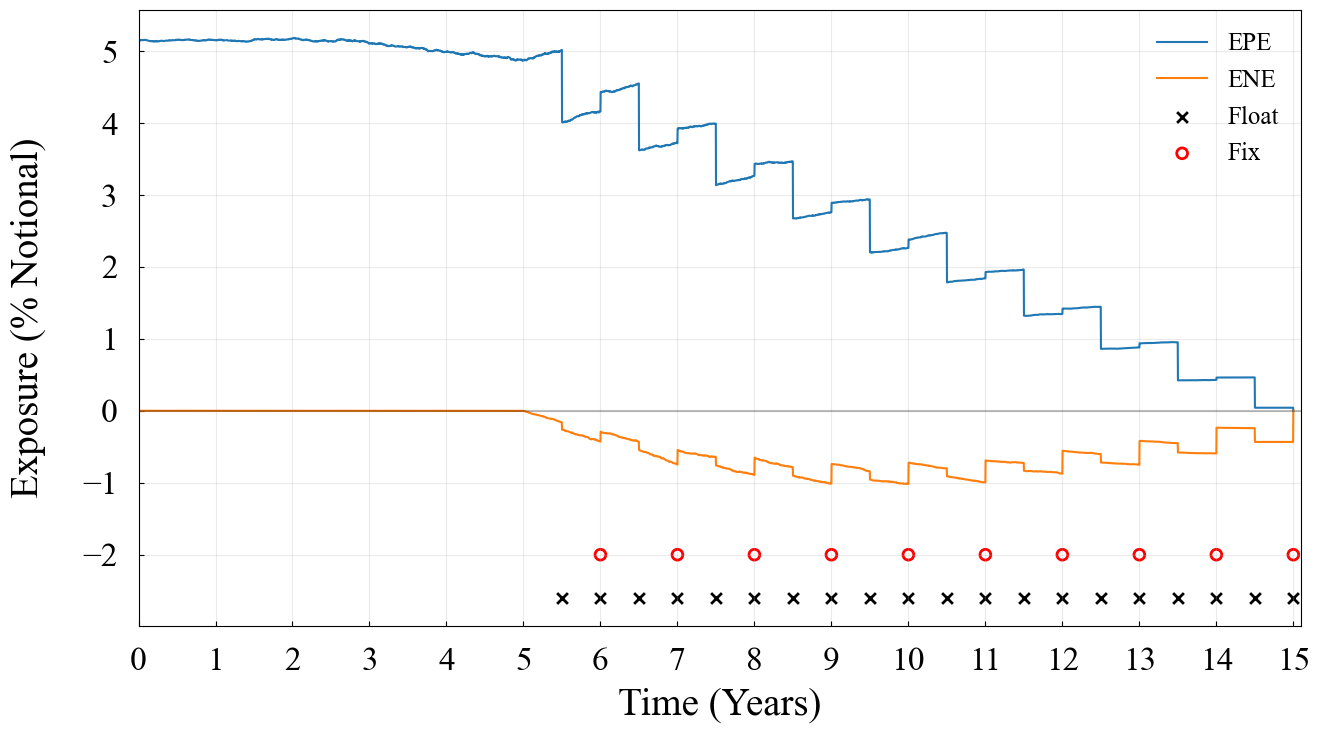
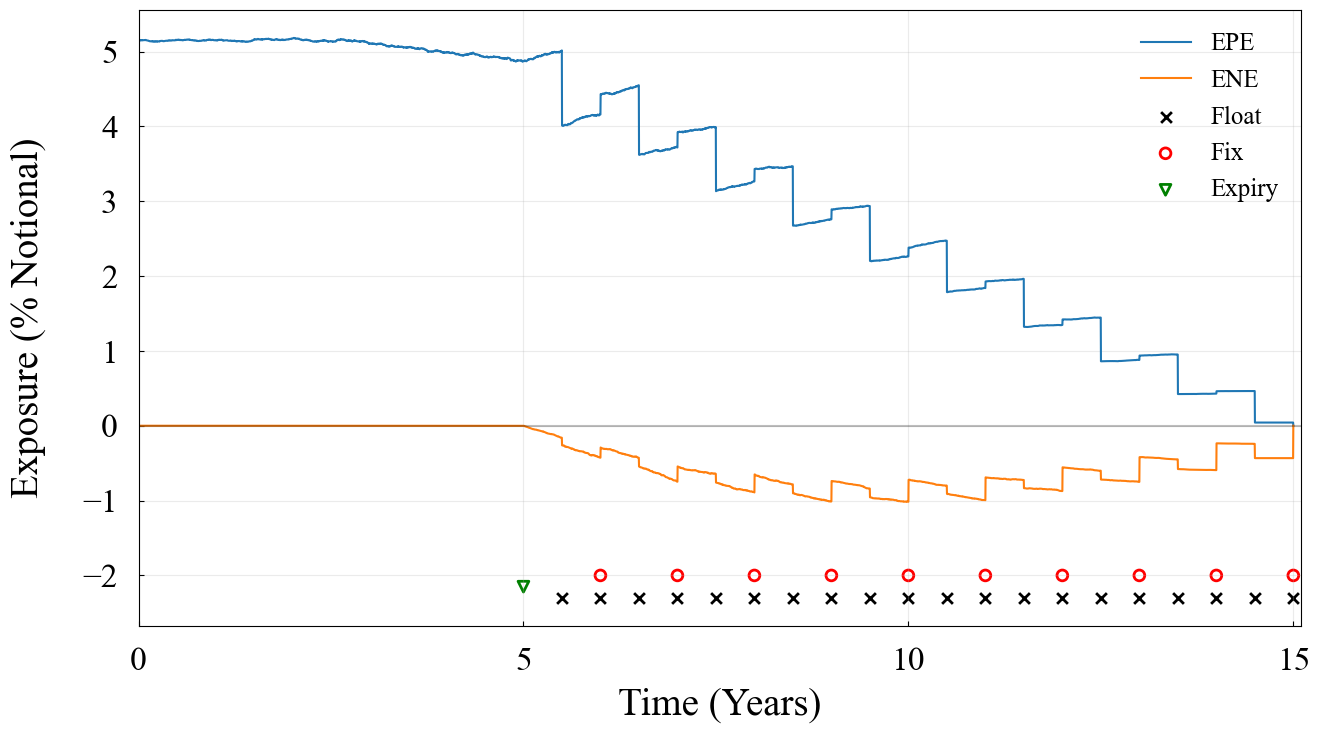
graphs

diff --git a/KInfluenceCVADVA.py b/KInfluenceCVADVA.py
@@ -25,7 +25,7 @@ S=np.arange(0,11,1)
 
 # Other settings
 dt   = 1/12
-sims = 1000
+sims = 5000
 total_time = timer.time()
 
 KVM=0 # Threshold for VM
@@ -36,7 +36,7 @@ Kvals = np.array([0, 0.1, 0.2, 0.3, 0.4, 0.5])
 MTAvals = np.array([0, 0.1, 0.2, 0.3, 0.4, 0.5])
 
 
-if True:
+if False:
     print('10Y Payer Swap K changes CVA and DVA')
     start = timer.time()
     
@@ -170,6 +170,7 @@ if True:
     ax.tick_params(axis='y', direction='in', top = 'True', labelsize = 24, pad = 15)
     ax.xaxis.set_label_coords(0.5, -0.1)
     ax.yaxis.set_label_coords(-0.12, 0.5)
+    ax.set_xlim(0,50)
     ax.fill_between(x, (results['CVA lower bound']*1000000), (results['CVA upper bound']*1000000), color='grey', alpha=0.1)
     plt.legend(frameon = False, fontsize = 18, loc='upper right')
 
@@ -194,13 +195,14 @@ if True:
     ax.tick_params(axis='y', direction='in', top = 'True', labelsize = 24, pad = 15)
     ax.xaxis.set_label_coords(0.5, -0.1)
     ax.yaxis.set_label_coords(-0.12, 0.5)
+    ax.set_xlim(0,50)
     ax.fill_between(x, (results['DVA lower bound']*1000000), (results['DVA upper bound']*1000000), color='grey', alpha=0.1)
-    plt.legend(frameon = False, fontsize = 18, loc='upper right')
+    plt.legend(frameon = False, fontsize = 18, loc='lower right')
 
     plt.savefig(f'./Graphs/K_Change_DVA_Swap_N={sims}_dt={int(1/dt)}.png', bbox_inches='tight')
 
 
-if False:
+if True:
     print('10Y Payer Swap Mta change CVA DVA')
     start = timer.time()
     
@@ -334,6 +336,7 @@ if False:
     ax.tick_params(axis='y', direction='in', top = 'True', labelsize = 24, pad = 15)
     ax.xaxis.set_label_coords(0.5, -0.1)
     ax.yaxis.set_label_coords(-0.12, 0.5)
+    ax.set_xlim(0,50)
     ax.fill_between(x, (results['CVA lower bound']*1000000), (results['CVA upper bound']*1000000), color='grey', alpha=0.1)
     plt.legend(frameon = False, fontsize = 18, loc='upper right')
 
@@ -358,8 +361,9 @@ if False:
     ax.tick_params(axis='y', direction='in', top = 'True', labelsize = 24, pad = 15)
     ax.xaxis.set_label_coords(0.5, -0.1)
     ax.yaxis.set_label_coords(-0.12, 0.5)
+    ax.set_xlim(0,50)
     ax.fill_between(x, (results['DVA lower bound']*1000000), (results['DVA upper bound']*1000000), color='grey', alpha=0.1)
-    plt.legend(frameon = False, fontsize = 18, loc='upper right')
+    plt.legend(frameon = False, fontsize = 18, loc='lower right')
 
     plt.savefig(f'./Graphs/MTA_Change_DVA_Swap_N={sims}_dt={int(1/dt)}.png', bbox_inches='tight')
 
